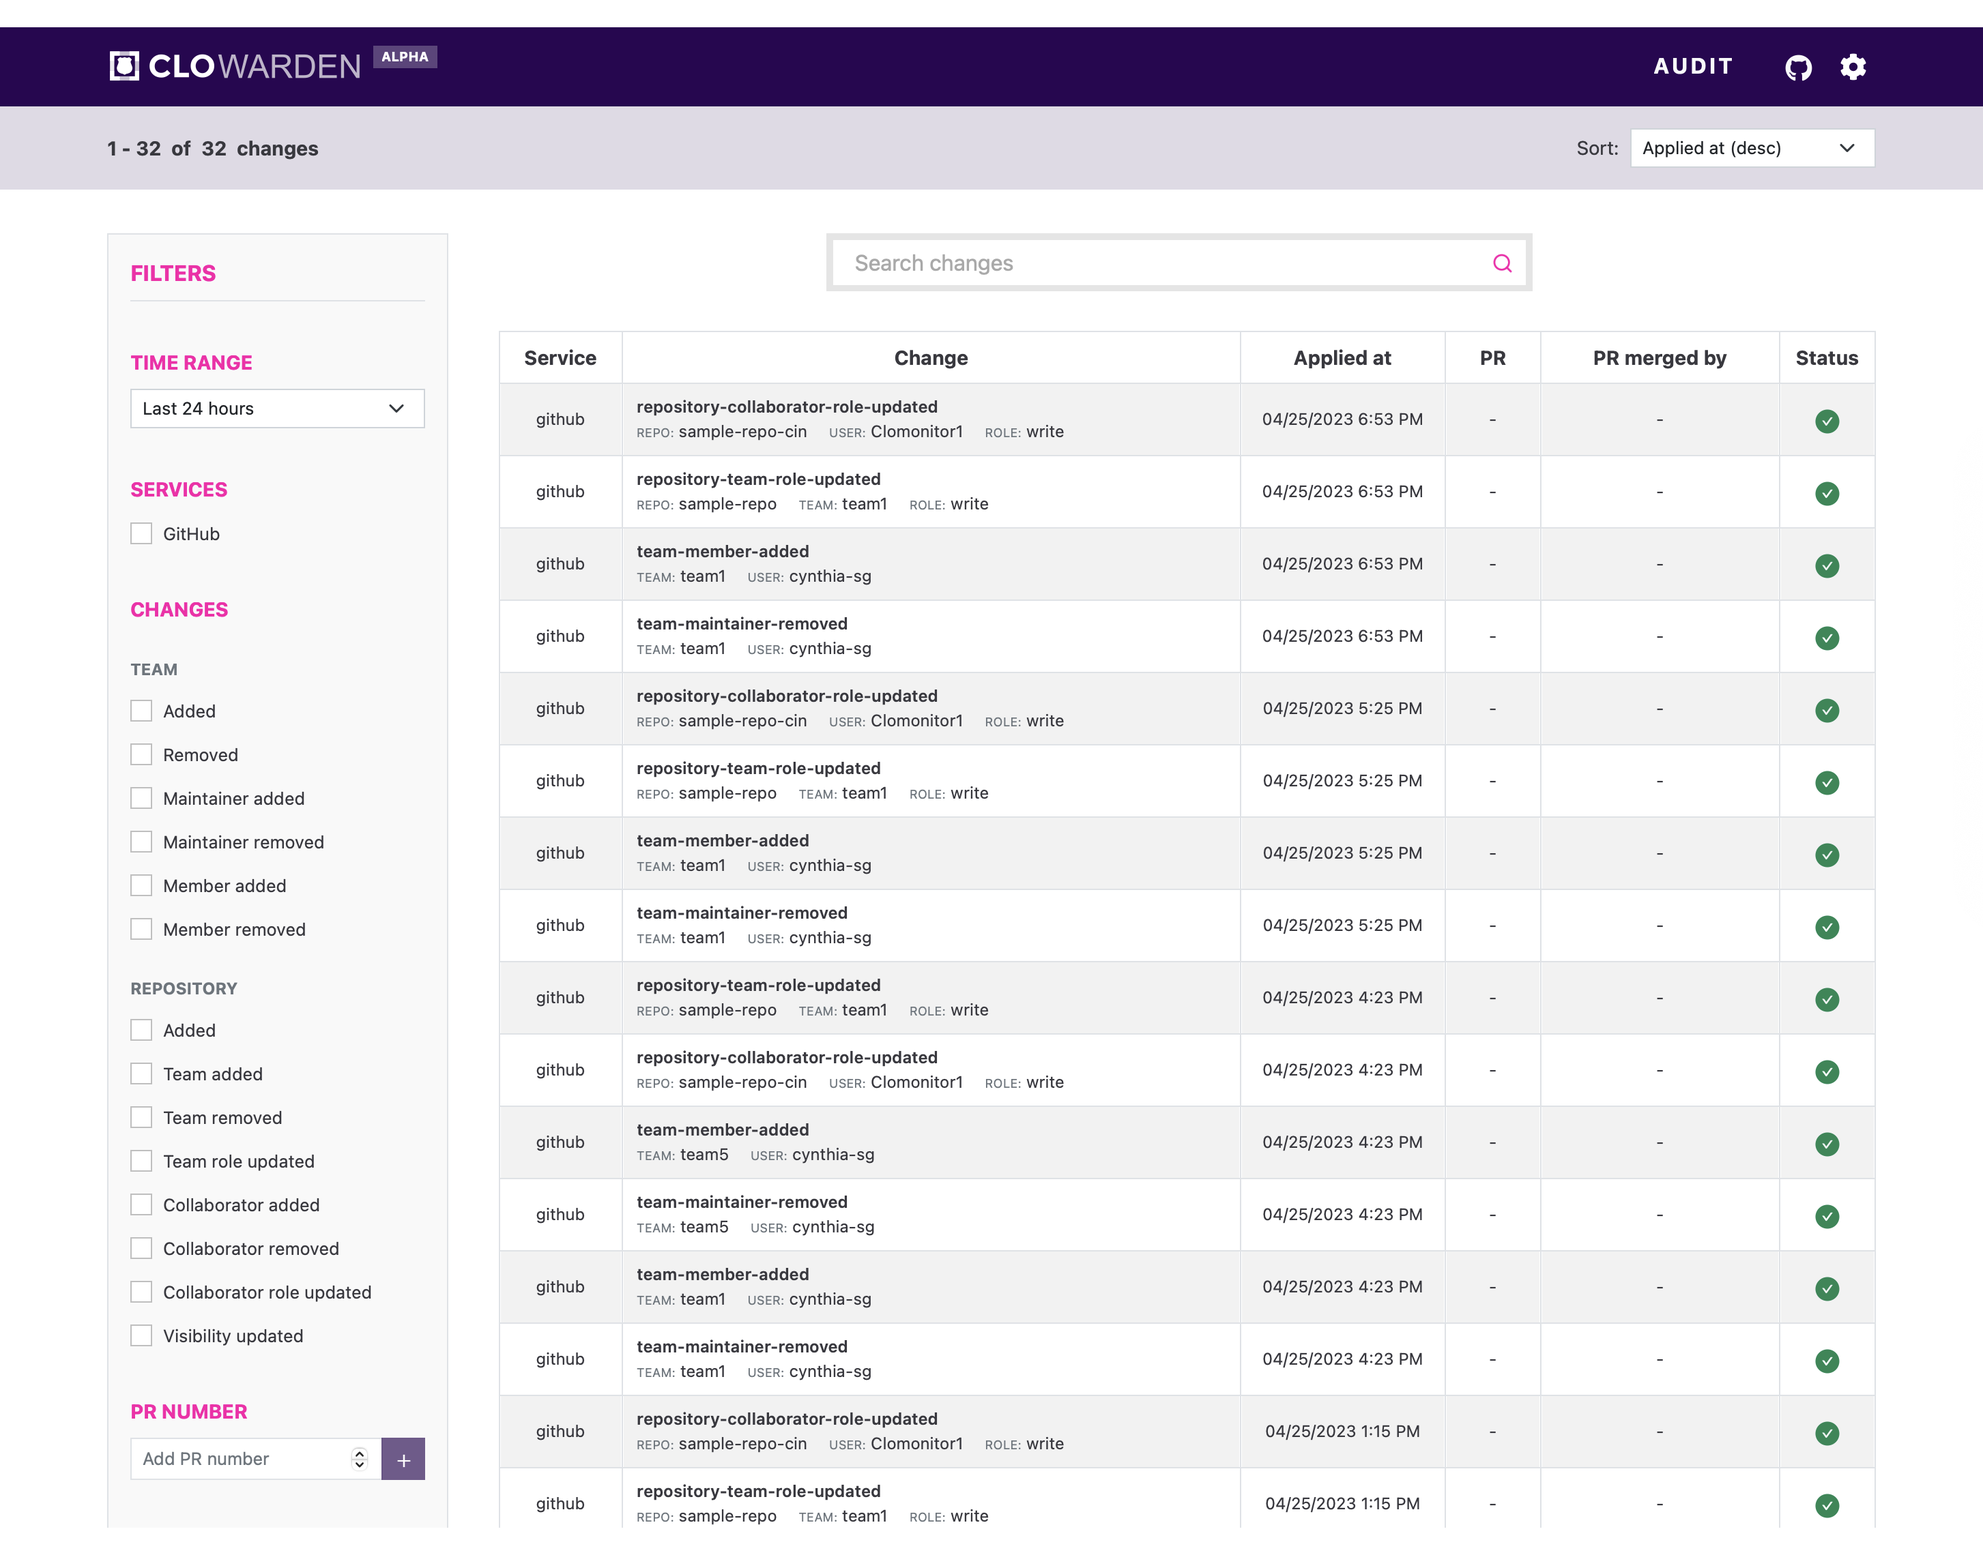
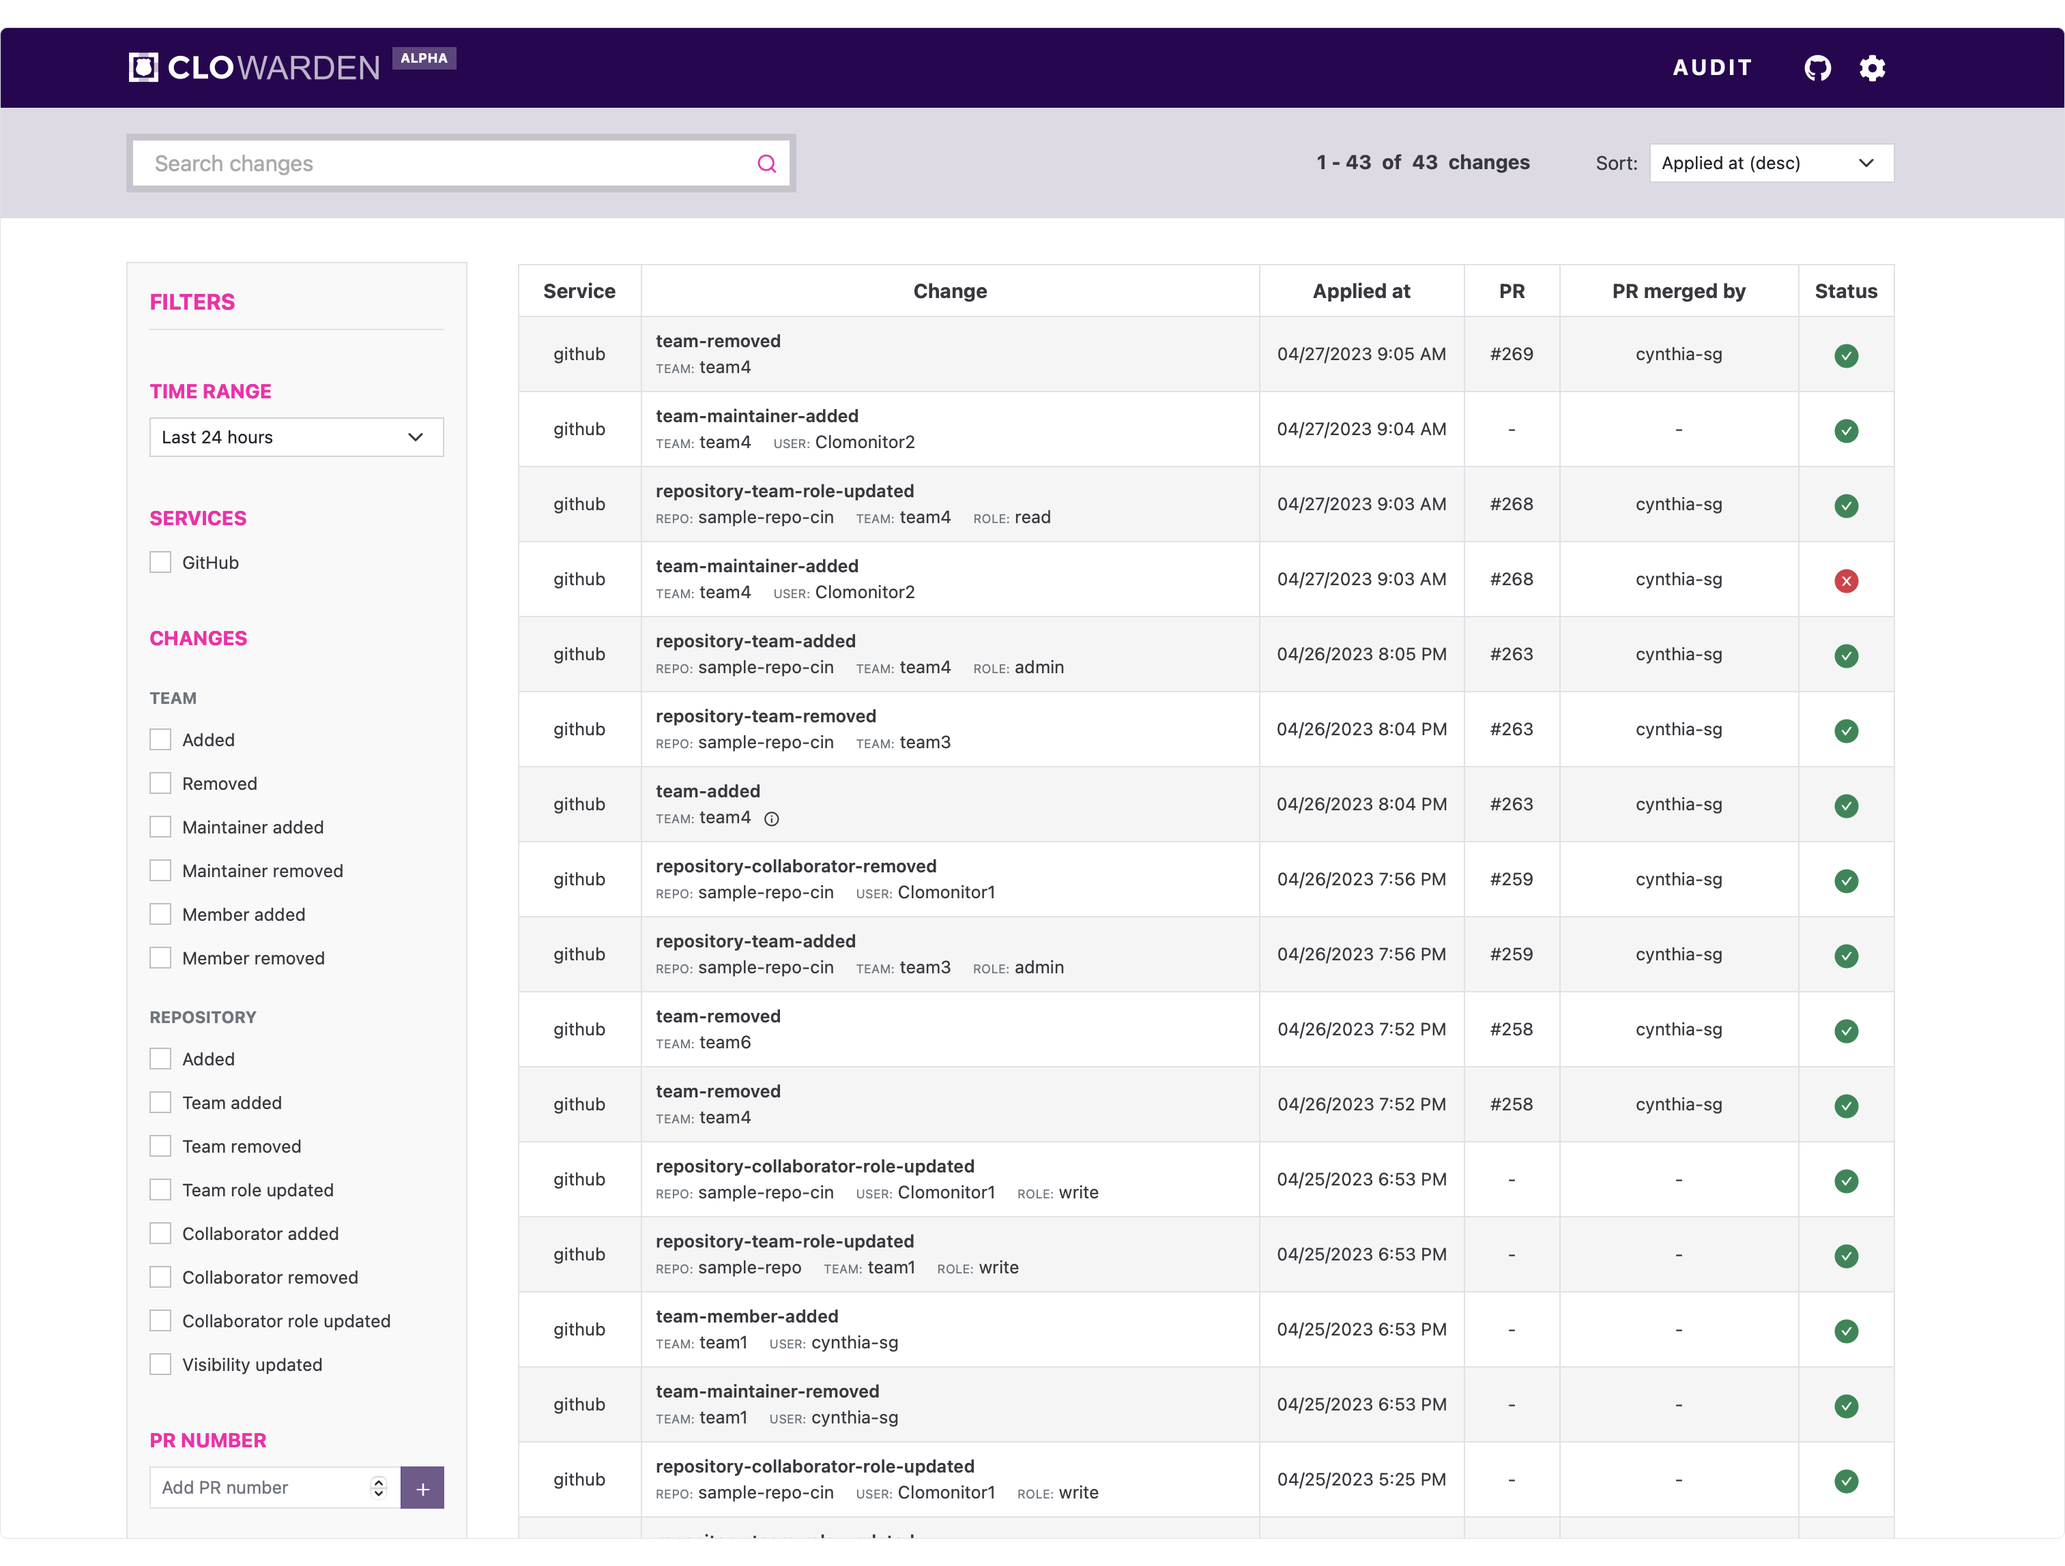
Some improvements in audit UI

diff --git a/web/src/layout/audit/index.tsx b/web/src/layout/audit/index.tsx
@@ -158,6 +158,8 @@ const Audit = () => {
       } catch {
         // TODO - error
         setApiError('An error occurred searching changes.');
+        setChanges([]);
+        setTotal(0);
       } finally {
         setIsLoading(false);
         scrollToTop();
@@ -187,7 +189,7 @@ const Audit = () => {
           <SubNavbar>
             <div className="d-flex flex-column w-100">
               <div className="d-flex flex-column flex-sm-row align-items-center justify-content-between flex-nowrap">
-                <div className="d-flex flex-row flex-md-column align-items-center align-items-md-start w-100 text-truncate">
+                <div className="d-flex flex-row flex-md-column align-items-center align-items-md-start w-100">
                   <Sidebar
                     label="Filters"
                     className="d-inline-block d-md-none me-2"
@@ -236,7 +238,11 @@ const Audit = () => {
                       />
                     </div>
                   </Sidebar>
-                  <div className={`text-truncate fw-bold w-100 ${styles.searchResults}`} role="status">
+
+                  <Searchbar />
+                </div>
+                <div className="d-flex flex-wrap flex-row justify-content-sm-end align-items-baseline mt-3 mt-sm-0 w-100">
+                  <div className={`fw-bold ${styles.searchResults}`} role="status">
                     {total > 0 && (
                       <span className="pe-1">
                         {calculateOffset(pageNumber) + 1} - {total < limit * pageNumber ? total : limit * pageNumber}{' '}
@@ -246,8 +252,6 @@ const Audit = () => {
                     {total}
                     <span className="ps-1"> changes </span>
                   </div>
-                </div>
-                <div className="d-flex flex-wrap flex-row justify-content-sm-end mt-3 mt-sm-0 w-100">
                   <SortOptions
                     options={SORT_OPTIONS as any[]}
                     by={sort.by}
@@ -298,7 +302,6 @@ const Audit = () => {
 
                 {changes && (
                   <>
-                    <Searchbar />
                     {isEmpty(changes) ? (
                       <NoData>
                         <div className="h4">
@@ -340,10 +343,8 @@ const Audit = () => {
                       </NoData>
                     ) : (
                       <div className={`ms-3 ${styles.list}`}>
-                        <table
-                          className={`table table-striped table-hover table-bordered table-md mb-0 ${styles.table}`}
-                        >
-                          <thead className={styles.tableHeader}>
+                        <table className={`table table-bordered table-md mb-0 ${styles.table}`}>
+                          <thead className={`lightText ${styles.tableHeader}`}>
                             <tr>
                               <th scope="col" className="text-center">
                                 Service
@@ -372,7 +373,7 @@ const Audit = () => {
                                   <tr>
                                     <td className="text-center align-middle">{change.service}</td>
                                     <td className="align-middle">
-                                      <div className="fw-semibold">{change.kind}</div>
+                                      <div className="fw-semibold lightText">{change.kind}</div>
                                       <div className="d-flex flex-row flex-nowrap align-items-center">
                                         {(() => {
                                           switch (change.kind) {
@@ -385,12 +386,11 @@ const Audit = () => {
                                                   </div>
                                                   <div className="d-none d-md-inline-block">
                                                     <ElementWithTooltip
-                                                      tooltipClassName={styles.tooltipMessage}
-                                                      className={`position-relative ms-1 ps-1 ${styles.tooltipIcon}`}
-                                                      element={<MdInfoOutline />}
+                                                      className="position-relative ms-1 ps-1"
+                                                      element={<MdInfoOutline className="cursorPointer" />}
                                                       tooltipWidth={250}
                                                       tooltipMessage={
-                                                        <div className={`text-start ${styles.tooltip}`}>
+                                                        <div className={`text-start p-2 ${styles.tooltip}`}>
                                                           <div>
                                                             <span className="text-uppercase text-muted">Name:</span>{' '}
                                                             {change.extra.team.name}
@@ -477,12 +477,11 @@ const Audit = () => {
                                                   </div>
                                                   <div className="d-none d-md-inline-block">
                                                     <ElementWithTooltip
-                                                      tooltipClassName={styles.tooltipMessage}
-                                                      className={`position-relative ms-1 ps-1 ${styles.tooltipIcon}`}
-                                                      element={<MdInfoOutline />}
+                                                      className="position-relative ms-1 ps-1"
+                                                      element={<MdInfoOutline className="cursorPointer" />}
                                                       tooltipWidth={250}
                                                       tooltipMessage={
-                                                        <div className={`text-start ${styles.tooltip}`}>
+                                                        <div className={`text-start p-2 ${styles.tooltip}`}>
                                                           <div>
                                                             <span className="text-uppercase text-muted">Name:</span>{' '}
                                                             {change.extra.repo.name}
@@ -669,9 +668,30 @@ const Audit = () => {
                                     </td>
                                     <td className="text-center align-middle fs-5">
                                       {isUndefined(change.error) ? (
-                                        <AiFillCheckCircle className="text-success" />
+                                        <ElementWithTooltip
+                                          className="position-relative"
+                                          tooltipClassName={styles.tooltipWrapper}
+                                          element={<AiFillCheckCircle className="cursorPointer text-success" />}
+                                          tooltipWidth={230}
+                                          tooltipMessage={<div className="p-2">Change applied successfully</div>}
+                                          visibleTooltip
+                                          active
+                                        />
                                       ) : (
-                                        <AiFillCloseCircle className="text-danger" />
+                                        <ElementWithTooltip
+                                          className="position-relative"
+                                          tooltipClassName={styles.tooltipWrapper}
+                                          element={<AiFillCloseCircle className="cursorPointer text-danger" />}
+                                          tooltipWidth={300}
+                                          tooltipMessage={
+                                            <div className="text-start p-2">
+                                              <div className="mb-2">Error applying change:</div>
+                                              {change.error}
+                                            </div>
+                                          }
+                                          visibleTooltip
+                                          active
+                                        />
                                       )}
                                     </td>
                                   </tr>

diff --git a/web/public/index.html b/web/public/index.html
@@ -2,22 +2,22 @@
 <html lang="en" data-theme="light">
   <head>
     <meta charset="utf-8" />
-    <link rel="shortcut icon" type="image/png" href="https://clowarden.io/audit/static/media/logo.png" />
+    <link rel="shortcut icon" type="image/png" href="https://clowarden.io/static/media/logo.png" />
     <meta name="viewport" content="width=device-width, initial-scale=1, maximum-scale=1" />
     <meta name="theme-color" content="#2a0552" />
     <meta name="description" content="CLOWarden" />
-    <link rel="apple-touch-icon" href="https://clowarden.io/audit/static/media/logo192.png" />
-    <link rel="apple-touch-icon" sizes="512x512" href="https://clowarden.io/audit/static/media/logo512.png" />
-    <link rel="manifest" href="/audit/manifest.json" />
+    <link rel="apple-touch-icon" href="https://clowarden.io/static/media/logo192.png" />
+    <link rel="apple-touch-icon" sizes="512x512" href="https://clowarden.io/static/media/logo512.png" />
+    <link rel="manifest" href="/static/manifest.json" />
     <title>CLOWarden</title>
     <meta property="og:type" content="website" />
     <meta property="og:title" content="CLOWarden" />
     <meta property="og:description" content="CLOWarden" />
-    <meta property="og:image" content="https://clowarden.io/audit/static/media/clowarden.png" />
+    <meta property="og:image" content="https://clowarden.io/static/media/clowarden.png" />
     <meta name="twitter:card" content="summary_large_image" />
     <meta name="twitter:title" content="CLOWarden" />
     <meta name="twitter:description" content="CLOWarden" />
-    <meta name="twitter:image:src" content="https://clowarden.io/audit/static/media/clowarden.png" />
+    <meta name="twitter:image:src" content="https://clowarden.io/static/media/clowarden.png" />
   </head>
   <body>
     <noscript>You need to enable JavaScript to run this app.</noscript>

diff --git a/web/src/layout/audit/filters/Filters.tsx b/web/src/layout/audit/filters/Filters.tsx
@@ -1,5 +1,5 @@
 import { FilterSection, FiltersSection, InputFiltersSection } from 'clo-ui';
-import { isEmpty } from 'lodash';
+import { isEmpty, isUndefined } from 'lodash';
 import React from 'react';
 import { IoMdCloseCircleOutline } from 'react-icons/io';
 
@@ -26,7 +26,7 @@ const Filters = (props: Props) => {
       {props.visibleTitle && (
         <div className="d-flex flex-row align-items-center justify-content-between pb-2 mb-4 border-bottom">
           <div className="h6 text-uppercase mb-0 lh-base text-primary fw-bold">Filters</div>
-          {!isEmpty(props.activeFilters) && (
+          {(!isEmpty(props.activeFilters) || !isUndefined(props.timeRange)) && (
             <button className="btn btn-link text-primary" onClick={props.onResetFilters} aria-label="Reset filters">
               <div className="d-flex flex-row align-items-center">
                 <IoMdCloseCircleOutline className="me-2" />

diff --git a/web/src/layout/audit/Audit.module.css b/web/src/layout/audit/Audit.module.css
@@ -11,6 +11,7 @@
 
 .searchResults {
   font-size: 0.9rem;
+  margin-right: 3rem;
 }
 
 label {
@@ -110,9 +111,17 @@ label {
 }
 
 .tableContent td {
-  font-size: 0.75rem;
+  font-size: 0.8rem;
   color: var(--color-font) !important;
   padding: 0.5rem 0.65rem;
+}
+
+.tableContent > tr:nth-child(odd) > td {
+  background-color: rgba(0, 0, 0, 0.04);
+}
+
+[data-theme='dark'] .tableContent > tr:nth-child(odd) > td {
+  --bs-table-accent-bg: rgba(255, 255, 255, 0.05);
 }
 
 .tableContent small {
@@ -139,6 +148,10 @@ label {
   list-style-type: '- ';
   padding-left: 1rem;
   margin-bottom: 0;
+}
+
+.tooltipWrapper {
+  margin-left: -3px;
 }
 
 @media only screen and (min-width: 1400px) {

diff --git a/web/src/layout/audit/filters/SelectedFilters.tsx b/web/src/layout/audit/filters/SelectedFilters.tsx
@@ -34,7 +34,7 @@ const SelectedFilters = (props: Props) => {
   };
 
   return (
-    <div className="d-none d-md-block mt-2">
+    <div className="d-none d-md-block mt-4">
       <div className="d-flex flex-row justify-content-start align-items-baseline">
         <div className="me-3">Filters:</div>
         <div role="list" className={`position-relative ${styles.badges}`}>

diff --git a/web/src/api/index.ts b/web/src/api/index.ts
@@ -111,7 +111,6 @@ class API_CLASS {
     }&sort_direction=${query.sort_direction || DEFAULT_SORT_DIRECTION}`;
 
     const timeRange = calculateTimeRange(query.time_range || DEFAULT_TIME_RANGE);
-    console.log(timeRange);
     q += `&applied_from=${encodeURIComponent(timeRange.from)}&applied_to=${encodeURIComponent(timeRange.to)}`;
 
     if (query.ts_query_web) {

diff --git a/web/src/layout/audit/Searchbar.tsx b/web/src/layout/audit/Searchbar.tsx
@@ -49,7 +49,7 @@ const Searchbar = () => {
   };
 
   return (
-    <div className={`d-flex flex-row w-50 my-3 mx-auto position-relative ${styles.wrapper}`}>
+    <div className={`d-flex flex-row w-75 my-2 position-relative ${styles.wrapper}`}>
       <SearchbarForm
         value={value}
         onValueChange={(newValue: string) => setValue(newValue)}

diff --git a/web/src/layout/navigation/Navbar.tsx b/web/src/layout/navigation/Navbar.tsx
@@ -36,7 +36,7 @@ const Navbar = () => {
             Audit
           </Link>
           <ExternalLink
-            className="btn btn-md text-light fs-5"
+            className={`btn btn-md text-light fs-5 ${styles.ghLink}`}
             label="Github link"
             href="https://github.com/cncf/clowarden"
           >

diff --git a/web/src/layout/audit/filters/TimeRange.tsx b/web/src/layout/audit/filters/TimeRange.tsx
@@ -37,7 +37,6 @@ const TimeRange = (props: Props) => {
             {opt.label}
           </option>
         ))}
-        ;
       </select>
     </div>
   );

diff --git a/web/src/layout/navigation/Navbar.module.css b/web/src/layout/navigation/Navbar.module.css
@@ -10,6 +10,10 @@
   letter-spacing: 2px;
 }
 
+.ghLink {
+  margin-top: -2px;
+}
+
 .alpha {
   background-color: var(--color-white-25);
   top: -8px;

diff --git a/web/src/layout/audit/Searchbar.module.css b/web/src/layout/audit/Searchbar.module.css
@@ -1,6 +1,5 @@
 .wrapper {
   padding-left: 0.3rem;
-  padding-top: 0.3rem;
 }
 
 .questionMark {

diff --git a/src/handlers.rs b/src/handlers.rs
@@ -100,6 +100,14 @@ pub(crate) fn setup_router(
         .route("/audit", get(|| async { Redirect::permanent("/audit/") }))
         .route("/", get_service(ServeFile::new(&root_index_path)))
         .nest("/audit/", audit_router)
+        .nest_service(
+            "/static",
+            get_service(SetResponseHeader::overriding(
+                ServeDir::new(static_path),
+                CACHE_CONTROL,
+                HeaderValue::try_from(format!("max-age={STATIC_CACHE_MAX_AGE}"))?,
+            )),
+        )
         .fallback_service(get_service(ServeFile::new(&root_index_path)))
         .layer(ServiceBuilder::new().layer(TraceLayer::new_for_http()))
         .with_state(RouterState {
